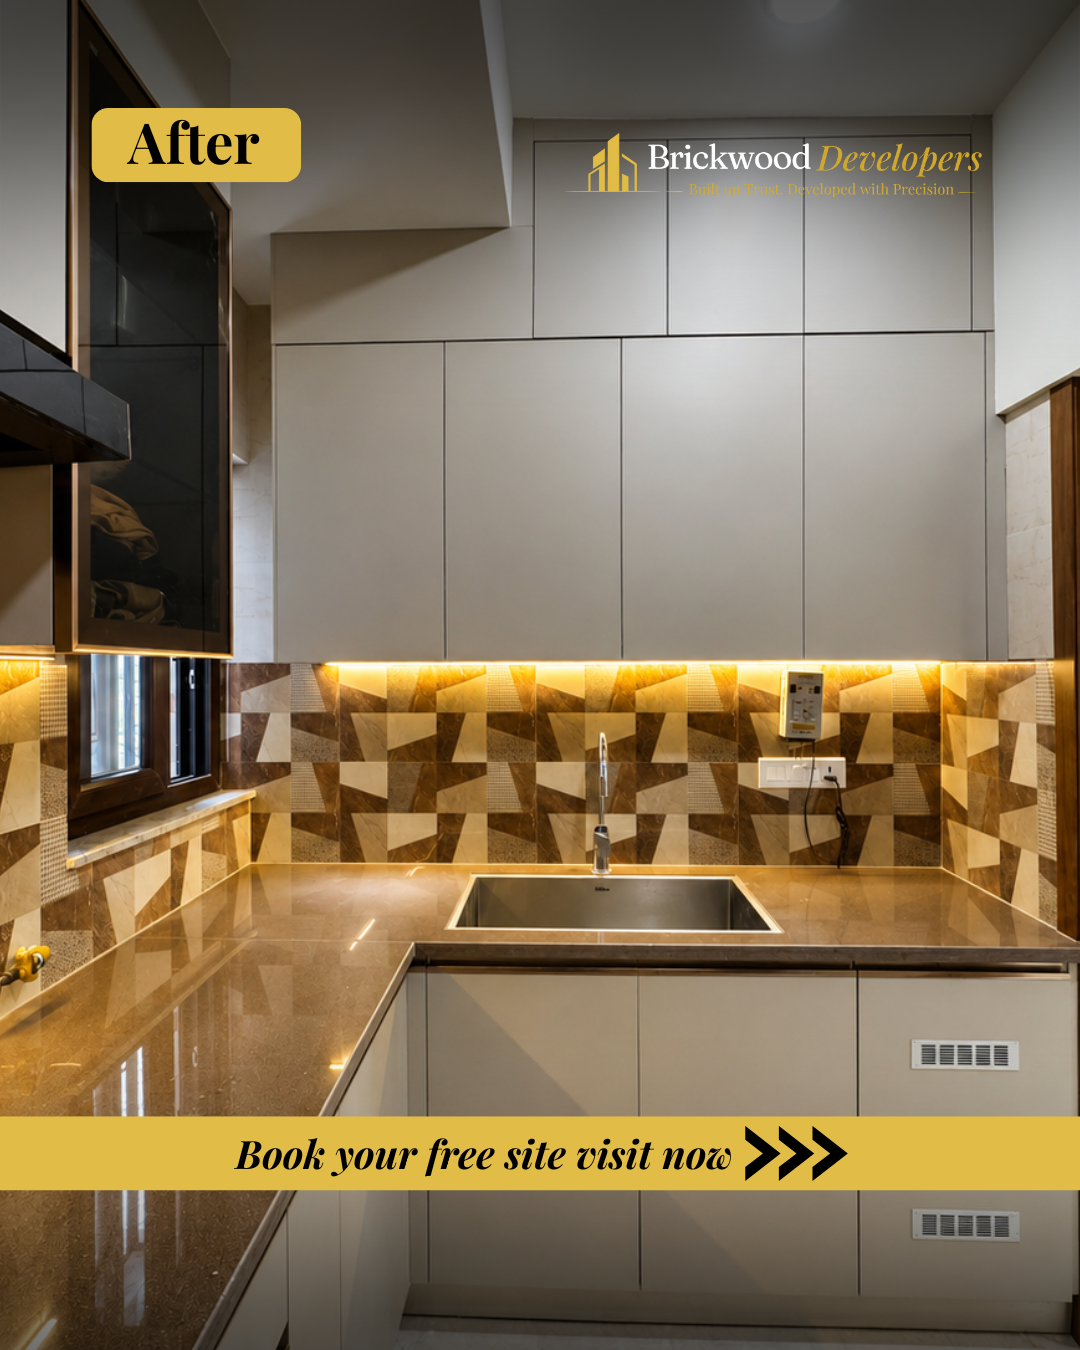
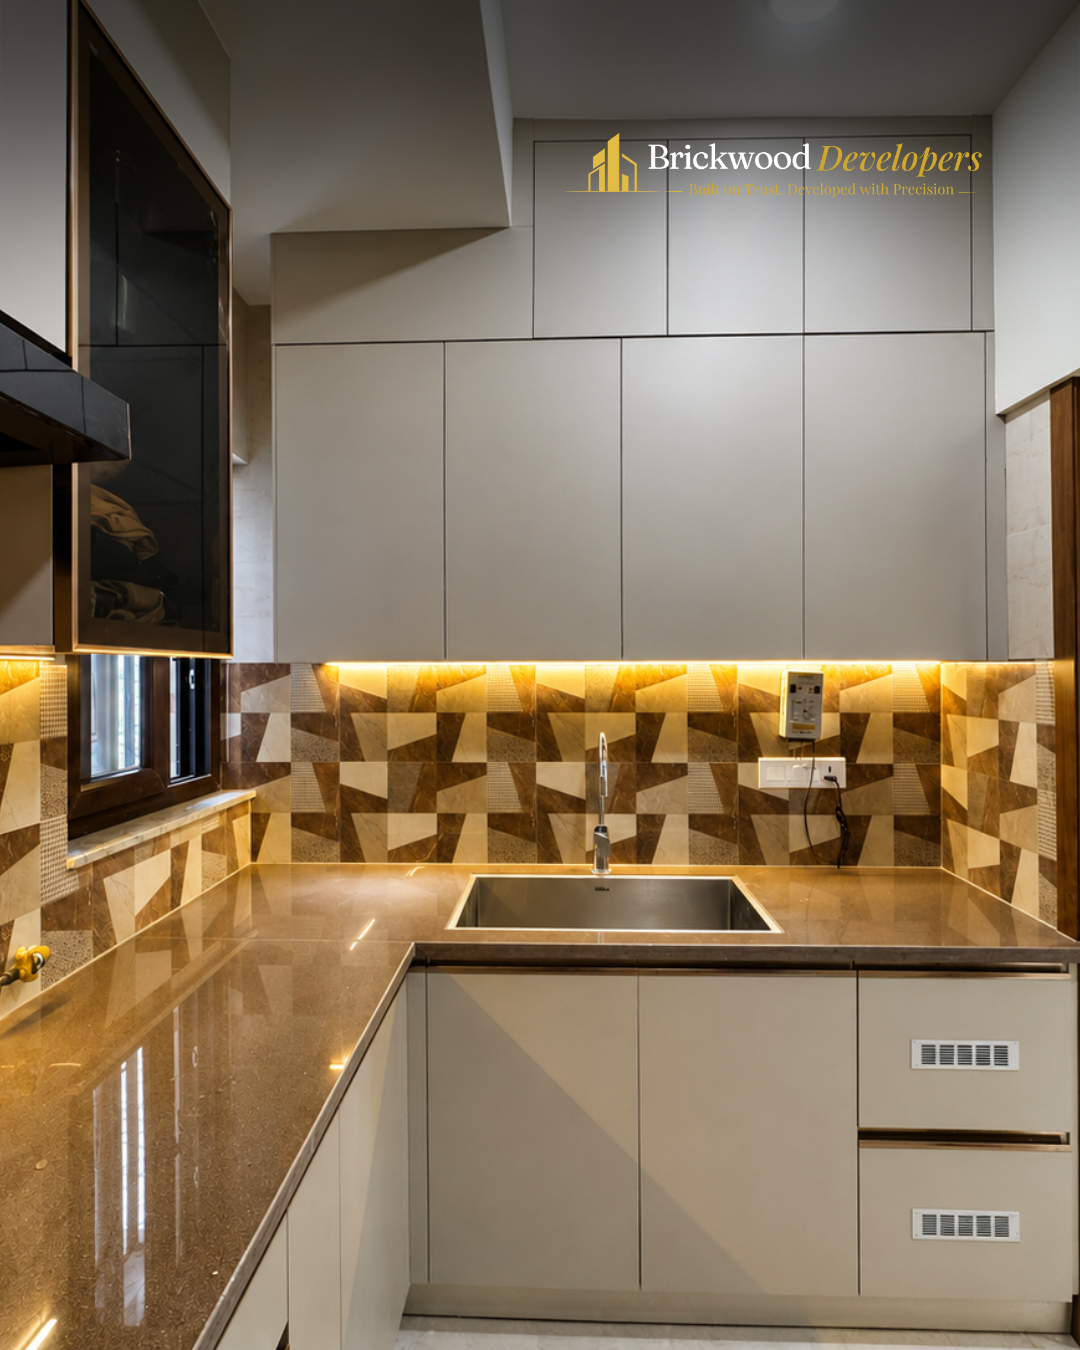
3 more pic added

Changed region(s): [[0.0, 0.8089, 1.0, 1.0], [0.0611, 0.0622, 0.3056, 0.1556]]

diff --git a/Website/portfolio.html b/Website/portfolio.html
@@ -81,23 +81,26 @@
       display:block;
       border-radius:2px;
     }
-    /* After image — shown by default */
-    .ba-after{
+
+    /* ── REVERSED LOGIC ── */
+    /* Before image — shown by default (base layer) */
+    .ba-before{
       width:100%;
       display:block;
       object-fit:cover;
     }
-    /* Before image — revealed on drag */
-    .ba-before{
+
+    /* After image — hidden by default, revealed on drag */
+    .ba-after{
       position:absolute;
       inset:0;
       width:100%;
       height:100%;
       object-fit:cover;
       display:block;
-      clip-path:inset(0 100% 0 0);
+      clip-path:inset(0 100% 0 0); /* fully hidden initially */
     }
-    .ba-before.snap-back{
+    .ba-after.snap-back{
       transition:clip-path 0.45s cubic-bezier(0.25,0.46,0.45,0.94);
     }
 
@@ -149,13 +152,15 @@
       opacity:0;
       transition:opacity 0.25s;
     }
-    .ba-label-after{
+    /* "Before" label on LEFT side (base layer) */
+    .ba-label-before{
       left:14px;
       background:rgba(13,13,13,0.72);
       color:rgba(245,240,232,0.8);
       border:1px solid rgba(245,240,232,0.18);
     }
-    .ba-label-before{
+    /* "After" label on RIGHT side (revealed layer) */
+    .ba-label-after{
       right:14px;
       background:var(--gold);
       color:var(--dark);
@@ -177,7 +182,6 @@
     }
     .ba-hint svg{width:11px;height:11px;fill:var(--dark)}
     .ba-card.dragging .ba-hint{opacity:0}
-    /* hide hint after first interaction per-card */
     .ba-card.has-interacted .ba-hint{opacity:0}
 
     /* Card info overlay */
@@ -193,12 +197,12 @@
     .ba-meta{font-size:11px;color:rgba(245,240,232,0.5)}
 
     /* Scale on hover */
-    .ba-card:hover .ba-after,
-    .ba-card:hover .ba-before{transform:scale(1.03);transition:transform 0.55s ease}
-    .ba-card.dragging .ba-after,
-    .ba-card.dragging .ba-before{transform:scale(1)!important}
+    .ba-card:hover .ba-before,
+    .ba-card:hover .ba-after{transform:scale(1.03);transition:transform 0.55s ease}
+    .ba-card.dragging .ba-before,
+    .ba-card.dragging .ba-after{transform:scale(1)!important}
 
-    /* Placeholder colors (replace src with real photos) */
+    /* Placeholder colors */
     .ph{width:100%;display:block;object-fit:cover}
     .c1{background:linear-gradient(135deg,#1a1510,#2d2418)}
     .c2{background:linear-gradient(135deg,#101820,#1a2d20)}
@@ -324,96 +328,65 @@
     <!-- GRID -->
     <div class="portfolio-grid" id="portfolioGrid">
 
-      <!-- ══════════════════════════════════════════════
-           HOW TO ADD REAL PHOTOS:
-           Replace the <div class="ph c1 photo-placeholder"...> elements
-           with <img> tags like:
-             After:  <img class="ba-after" src="Images/project1-after.jpg" alt="After">
-             Before: <img class="ba-before" src="Images/project1-before.jpg" alt="Before">
-           Keep all other markup the same.
-      ══════════════════════════════════════════════ -->
+      <!--
+        HOW TO ADD REAL PHOTOS:
+        Each card now shows BEFORE by default.
+        Dragging right reveals the AFTER photo.
+
+        Replace placeholders with real <img> tags:
+          Before (base, shown first):  <img class="ba-before" src="Images/p1-before.jpg" alt="Before">
+          After  (revealed on drag):   <img class="ba-after"  src="Images/p1-after.jpg"  alt="After">
+      -->
 
       <!-- PROJECT 1 — Vasant Kunj Flat -->
       <div class="ba-card" data-cat="residential">
+        <!-- BEFORE — base layer, shown by default -->
+        <img class="ba-before" src="Images/C-8 8774 Kitchen Before.png" alt="Vasant Kunj Flat Before">
+        <!-- AFTER — revealed on drag -->
         <img class="ba-after" src="Images/C-8 8774 Kitchen After.png" alt="Vasant Kunj Flat After">
-        <div class="ph c1 photo-placeholder ba-after" style="height:50px">
-          After Photo<span>Images/p1-after.jpg</span>
-        </div>
-        <img class="ba-before" src="Images/C-8 8774 Kitchen Before.png" alt="Vasant Kunj Flat Before"> 
-        <div class="ph cb1 photo-placeholder ba-before" style="height:50px">
-          Before Photo<span>Images/p1-before.jpg</span>
-        </div>
         <div class="ba-divider">
           <div class="ba-divider-btn">
             <svg viewBox="0 0 20 20"><path d="M6 10l-4-4 4-4v3h8V6l4 4-4 4v-3H6v3z"/></svg>
           </div>
         </div>
         <div class="ba-overlay"></div>
-        <div class="ba-label ba-label-after">After</div>
         <div class="ba-label ba-label-before">Before</div>
+        <div class="ba-label ba-label-after">After</div>
         <div class="ba-hint">
           <svg viewBox="0 0 20 20"><path d="M6 10l-4-4 4-4v3h8V6l4 4-4 4v-3H6v3z"/></svg>
           Drag to reveal
         </div>
         <div class="ba-info">
           <div class="ba-tag">Residential</div>
-          <div class="ba-name">Vasant Kunj Flat</div>
-          <div class="ba-meta">1,400 sq ft · 2024</div>
+          <div class="ba-name">Modular Kitchen, C-8, Vasant Kunj</div>
+          <div class="ba-meta">1,400 sq ft · 2026</div>
         </div>
       </div>
 
       <!-- PROJECT 2 — Connaught Place Office -->
-      <div class="ba-card" data-cat="commercial">
-        <div class="ph c2 photo-placeholder ba-after" style="height:380px">
-          After Photo<span>Images/p2-after.jpg</span>
-        </div>
-        <div class="ph cb2 photo-placeholder ba-before" style="height:380px">
-          Before Photo<span>Images/p2-before.jpg</span>
-        </div>
-        <div class="ba-divider"><div class="ba-divider-btn"><svg viewBox="0 0 20 20"><path d="M6 10l-4-4 4-4v3h8V6l4 4-4 4v-3H6v3z"/></svg></div></div>
-        <div class="ba-overlay"></div>
-        <div class="ba-label ba-label-after">After</div>
-        <div class="ba-label ba-label-before">Before</div>
-        <div class="ba-hint"><svg viewBox="0 0 20 20"><path d="M6 10l-4-4 4-4v3h8V6l4 4-4 4v-3H6v3z"/></svg>Drag to reveal</div>
-        <div class="ba-info">
-          <div class="ba-tag">Commercial</div>
-          <div class="ba-name">Connaught Place Office</div>
-          <div class="ba-meta">3,200 sq ft · 2023</div>
-        </div>
-      </div>
-
-      <!-- PROJECT 3 — DDA Housing Complex -->
-      <div class="ba-card" data-cat="government">
-        <div class="ph c3 photo-placeholder ba-after" style="height:260px">
-          After Photo<span>Images/p3-after.jpg</span>
-        </div>
-        <div class="ph cb3 photo-placeholder ba-before" style="height:260px">
-          Before Photo<span>Images/p3-before.jpg</span>
-        </div>
-        <div class="ba-divider"><div class="ba-divider-btn"><svg viewBox="0 0 20 20"><path d="M6 10l-4-4 4-4v3h8V6l4 4-4 4v-3H6v3z"/></svg></div></div>
-        <div class="ba-overlay"></div>
-        <div class="ba-label ba-label-after">After</div>
-        <div class="ba-label ba-label-before">Before</div>
-        <div class="ba-hint"><svg viewBox="0 0 20 20"><path d="M6 10l-4-4 4-4v3h8V6l4 4-4 4v-3H6v3z"/></svg>Drag to reveal</div>
-        <div class="ba-info">
-          <div class="ba-tag">Government</div>
-          <div class="ba-name">DDA Housing Complex</div>
-          <div class="ba-meta">12,000 sq ft · 2022</div>
-        </div>
-      </div>
-
-      <!-- PROJECT 4 — GK Villa Extension -->
       <div class="ba-card" data-cat="residential">
-        <div class="ph c4 photo-placeholder ba-after" style="height:340px">
-          After Photo<span>Images/p4-after.jpg</span>
-        </div>
-        <div class="ph cb4 photo-placeholder ba-before" style="height:340px">
-          Before Photo<span>Images/p4-before.jpg</span>
-        </div>
+        <img class="ba-before" src="Images/C-8 8774 Hall Before.png" alt="Vasant Kunj Flat Before" style="width:100%;height:525px;object-fit:cover;">
+        <img class="ba-after" src="Images/C-8 8774 Hall After.png" alt="Vasant Kunj Flat After" style="width:100%;height:525px;object-fit:cover;">
         <div class="ba-divider"><div class="ba-divider-btn"><svg viewBox="0 0 20 20"><path d="M6 10l-4-4 4-4v3h8V6l4 4-4 4v-3H6v3z"/></svg></div></div>
         <div class="ba-overlay"></div>
-        <div class="ba-label ba-label-after">After</div>
         <div class="ba-label ba-label-before">Before</div>
+        <div class="ba-label ba-label-after">After</div>
+        <div class="ba-hint"><svg viewBox="0 0 20 20"><path d="M6 10l-4-4 4-4v3h8V6l4 4-4 4v-3H6v3z"/></svg>Drag to reveal</div>
+        <div class="ba-info">
+          <div class="ba-tag">Residential</div>
+          <div class="ba-name">GK Villa Extension</div>
+          <div class="ba-meta">2,800 sq ft · 2024</div>
+        </div>
+      </div>
+
+      <!-- PROJECT 3 — GK Villa Extension -->
+      <div class="ba-card" data-cat="residential">
+        <img class="ba-before" src="Images/C-8 8774 Lobby Before.png" alt="Vasant Kunj Flat Before" style="width:100%;height:525px;object-fit:cover;">
+        <img class="ba-after" src="Images/C-8 8774 Lobby After.png" alt="Vasant Kunj Flat After" style="width:100%;height:525px;object-fit:cover;">
+        <div class="ba-divider"><div class="ba-divider-btn"><svg viewBox="0 0 20 20"><path d="M6 10l-4-4 4-4v3h8V6l4 4-4 4v-3H6v3z"/></svg></div></div>
+        <div class="ba-overlay"></div>
+        <div class="ba-label ba-label-before">Before</div>
+        <div class="ba-label ba-label-after">After</div>
         <div class="ba-hint"><svg viewBox="0 0 20 20"><path d="M6 10l-4-4 4-4v3h8V6l4 4-4 4v-3H6v3z"/></svg>Drag to reveal</div>
         <div class="ba-info">
           <div class="ba-tag">Residential</div>
@@ -423,77 +396,33 @@
       </div>
 
       <!-- PROJECT 5 — HUL Office Fit-Out -->
-      <div class="ba-card" data-cat="commercial">
-        <div class="ph c5 photo-placeholder ba-after" style="height:280px">
-          After Photo<span>Images/p5-after.jpg</span>
-        </div>
-        <div class="ph cb5 photo-placeholder ba-before" style="height:280px">
-          Before Photo<span>Images/p5-before.jpg</span>
-        </div>
-        <div class="ba-divider"><div class="ba-divider-btn"><svg viewBox="0 0 20 20"><path d="M6 10l-4-4 4-4v3h8V6l4 4-4 4v-3H6v3z"/></svg></div></div>
-        <div class="ba-overlay"></div>
-        <div class="ba-label ba-label-after">After</div>
-        <div class="ba-label ba-label-before">Before</div>
-        <div class="ba-hint"><svg viewBox="0 0 20 20"><path d="M6 10l-4-4 4-4v3h8V6l4 4-4 4v-3H6v3z"/></svg>Drag to reveal</div>
-        <div class="ba-info">
-          <div class="ba-tag">Commercial</div>
-          <div class="ba-name">HUL Office Fit-Out</div>
-          <div class="ba-meta">5,600 sq ft · 2021</div>
-        </div>
-      </div>
-
-      <!-- PROJECT 6 — Rohini Modular Kitchen -->
       <div class="ba-card" data-cat="residential">
-        <div class="ph c6 photo-placeholder ba-after" style="height:240px">
-          After Photo<span>Images/p6-after.jpg</span>
-        </div>
-        <div class="ph cb6 photo-placeholder ba-before" style="height:240px">
-          Before Photo<span>Images/p6-before.jpg</span>
-        </div>
+        <img class="ba-before" src="Images/C-8 8774 Bathroom Before.png" alt="Vasant Kunj Flat Before" style="width:100%;height:525px;object-fit:cover;">
+        <img class="ba-after" src="Images/C-8 8774 Bathroom After.png" alt="Vasant Kunj Flat After" style="width:100%;height:525px;object-fit:cover;">
         <div class="ba-divider"><div class="ba-divider-btn"><svg viewBox="0 0 20 20"><path d="M6 10l-4-4 4-4v3h8V6l4 4-4 4v-3H6v3z"/></svg></div></div>
         <div class="ba-overlay"></div>
-        <div class="ba-label ba-label-after">After</div>
         <div class="ba-label ba-label-before">Before</div>
+        <div class="ba-label ba-label-after">After</div>
         <div class="ba-hint"><svg viewBox="0 0 20 20"><path d="M6 10l-4-4 4-4v3h8V6l4 4-4 4v-3H6v3z"/></svg>Drag to reveal</div>
         <div class="ba-info">
-          <div class="ba-tag">Residential</div>
-          <div class="ba-name">Rohini Modular Kitchen</div>
-          <div class="ba-meta">180 sq ft · 2024</div>
-        </div>
-      </div>
-
-      <!-- PROJECT 7 — DND Flyway Office -->
-      <div class="ba-card" data-cat="government">
-        <div class="ph c7 photo-placeholder ba-after" style="height:320px">
-          After Photo<span>Images/p7-after.jpg</span>
-        </div>
-        <div class="ph cb7 photo-placeholder ba-before" style="height:320px">
-          Before Photo<span>Images/p7-before.jpg</span>
-        </div>
-        <div class="ba-divider"><div class="ba-divider-btn"><svg viewBox="0 0 20 20"><path d="M6 10l-4-4 4-4v3h8V6l4 4-4 4v-3H6v3z"/></svg></div></div>
-        <div class="ba-overlay"></div>
-        <div class="ba-label ba-label-after">After</div>
-        <div class="ba-label ba-label-before">Before</div>
-        <div class="ba-hint"><svg viewBox="0 0 20 20"><path d="M6 10l-4-4 4-4v3h8V6l4 4-4 4v-3H6v3z"/></svg>Drag to reveal</div>
-        <div class="ba-info">
-          <div class="ba-tag">Government</div>
-          <div class="ba-name">DND Flyway Office</div>
-          <div class="ba-meta">4,000 sq ft · 2020</div>
+          <div class="ba-tag">Bathroom</div>
+          <div class="ba-name">C-8, Vasant Kunj</div>
+          <div class="ba-meta">5,600 sq ft · 2026</div>
         </div>
       </div>
 
       <!-- PROJECT 8 — Dwarka Full Interior -->
       <div class="ba-card" data-cat="residential">
-        <div class="ph c8 photo-placeholder ba-after" style="height:290px">
-          After Photo<span>Images/p8-after.jpg</span>
-        </div>
         <div class="ph cb8 photo-placeholder ba-before" style="height:290px">
           Before Photo<span>Images/p8-before.jpg</span>
         </div>
+        <div class="ph c8 photo-placeholder ba-after" style="height:290px">
+          After Photo<span>Images/p8-after.jpg</span>
+        </div>
         <div class="ba-divider"><div class="ba-divider-btn"><svg viewBox="0 0 20 20"><path d="M6 10l-4-4 4-4v3h8V6l4 4-4 4v-3H6v3z"/></svg></div></div>
         <div class="ba-overlay"></div>
-        <div class="ba-label ba-label-after">After</div>
         <div class="ba-label ba-label-before">Before</div>
+        <div class="ba-label ba-label-after">After</div>
         <div class="ba-hint"><svg viewBox="0 0 20 20"><path d="M6 10l-4-4 4-4v3h8V6l4 4-4 4v-3H6v3z"/></svg>Drag to reveal</div>
         <div class="ba-info">
           <div class="ba-tag">Residential</div>
@@ -504,16 +433,16 @@
 
       <!-- PROJECT 9 — Embassy Showroom -->
       <div class="ba-card" data-cat="commercial">
-        <div class="ph c9 photo-placeholder ba-after" style="height:370px">
-          After Photo<span>Images/p9-after.jpg</span>
-        </div>
         <div class="ph cb9 photo-placeholder ba-before" style="height:370px">
           Before Photo<span>Images/p9-before.jpg</span>
         </div>
+        <div class="ph c9 photo-placeholder ba-after" style="height:370px">
+          After Photo<span>Images/p9-after.jpg</span>
+        </div>
         <div class="ba-divider"><div class="ba-divider-btn"><svg viewBox="0 0 20 20"><path d="M6 10l-4-4 4-4v3h8V6l4 4-4 4v-3H6v3z"/></svg></div></div>
         <div class="ba-overlay"></div>
-        <div class="ba-label ba-label-after">After</div>
         <div class="ba-label ba-label-before">Before</div>
+        <div class="ba-label ba-label-after">After</div>
         <div class="ba-hint"><svg viewBox="0 0 20 20"><path d="M6 10l-4-4 4-4v3h8V6l4 4-4 4v-3H6v3z"/></svg>Drag to reveal</div>
         <div class="ba-info">
           <div class="ba-tag">Commercial</div>
@@ -524,16 +453,16 @@
 
       <!-- PROJECT 10 — Saket Home Extension -->
       <div class="ba-card" data-cat="residential">
-        <div class="ph c10 photo-placeholder ba-after" style="height:260px">
-          After Photo<span>Images/p10-after.jpg</span>
-        </div>
         <div class="ph cb10 photo-placeholder ba-before" style="height:260px">
           Before Photo<span>Images/p10-before.jpg</span>
         </div>
+        <div class="ph c10 photo-placeholder ba-after" style="height:260px">
+          After Photo<span>Images/p10-after.jpg</span>
+        </div>
         <div class="ba-divider"><div class="ba-divider-btn"><svg viewBox="0 0 20 20"><path d="M6 10l-4-4 4-4v3h8V6l4 4-4 4v-3H6v3z"/></svg></div></div>
         <div class="ba-overlay"></div>
-        <div class="ba-label ba-label-after">After</div>
         <div class="ba-label ba-label-before">Before</div>
+        <div class="ba-label ba-label-after">After</div>
         <div class="ba-hint"><svg viewBox="0 0 20 20"><path d="M6 10l-4-4 4-4v3h8V6l4 4-4 4v-3H6v3z"/></svg>Drag to reveal</div>
         <div class="ba-info">
           <div class="ba-tag">Residential</div>
@@ -628,27 +557,27 @@
   document.querySelectorAll('.reveal').forEach(el => revealObs.observe(el));
 
   /* ══════════════════════════════════════════════════════
-     BEFORE / AFTER DRAG MECHANIC
-     — Works with both mouse (desktop) and touch (mobile)
-     — Card shows AFTER by default
-     — Dragging left reveals BEFORE photo under a gold divider
-     — Releasing snaps smoothly back to AFTER
+     BEFORE / AFTER DRAG MECHANIC — REVERSED
+     — BEFORE is shown by default (base layer)
+     — Dragging RIGHT reveals the AFTER photo on top
+     — Releasing snaps smoothly back to BEFORE
   ══════════════════════════════════════════════════════ */
   document.querySelectorAll('.ba-card').forEach(card => {
-    const beforeEl  = card.querySelector('.ba-before');
-    const divider   = card.querySelector('.ba-divider');
+    // NOW targeting ba-after (the reveal layer)
+    const afterEl  = card.querySelector('.ba-after');
+    const divider  = card.querySelector('.ba-divider');
     let active = false;
 
     function setReveal(clientX) {
       const rect = card.getBoundingClientRect();
       let pct = Math.max(0, Math.min(100, ((clientX - rect.left) / rect.width) * 100));
-      beforeEl.style.clipPath = 'inset(0 ' + (100 - pct) + '% 0 0)';
+      afterEl.style.clipPath = 'inset(0 ' + (100 - pct) + '% 0 0)';
       divider.style.left = pct + '%';
     }
 
     function startDrag(clientX) {
       active = true;
-      beforeEl.classList.remove('snap-back');
+      afterEl.classList.remove('snap-back');
       card.classList.add('dragging');
       card.classList.add('has-interacted');
       setReveal(clientX);
@@ -663,9 +592,9 @@
       if (!active) return;
       active = false;
       card.classList.remove('dragging');
-      /* snap back to fully hidden (After state) */
-      beforeEl.classList.add('snap-back');
-      beforeEl.style.clipPath = 'inset(0 100% 0 0)';
+      /* snap back: hide After, return to Before */
+      afterEl.classList.add('snap-back');
+      afterEl.style.clipPath = 'inset(0 100% 0 0)';
       divider.style.left = '0%';
     }
 
